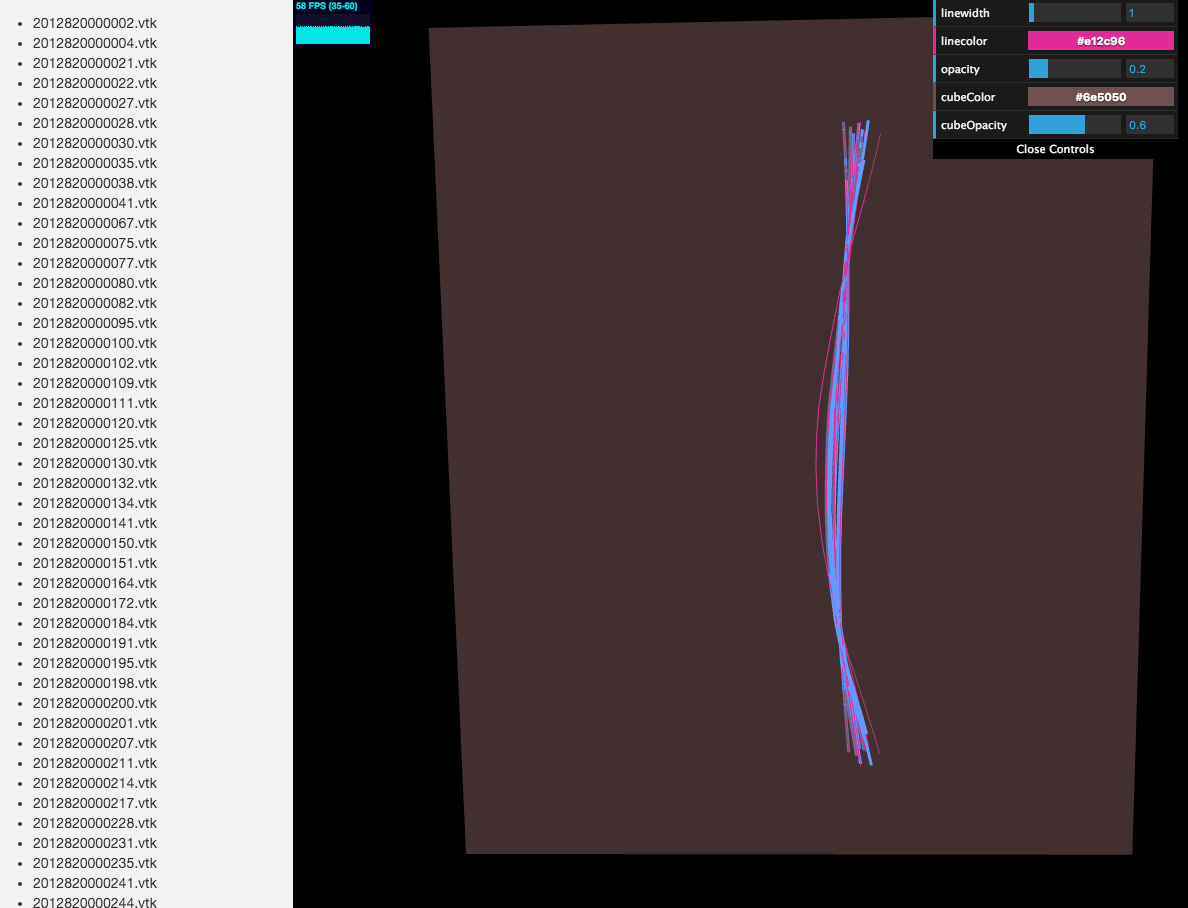
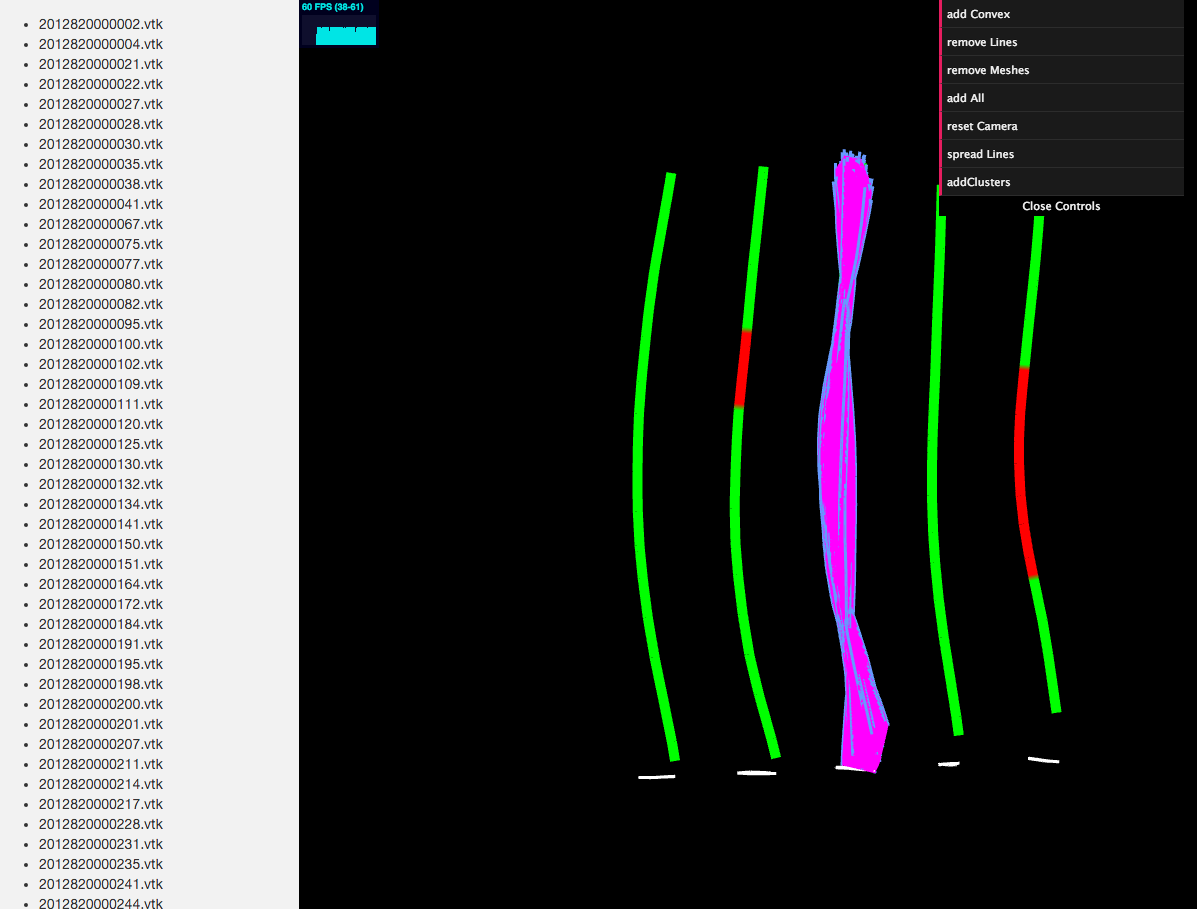
Add reference to Davids work

diff --git a/README.md b/README.md
@@ -3,3 +3,5 @@
 # THREE.js Playground
 
 Purpose of this project is to provide a reimplementation of a VTK-spine data set visualization of the [VMV'14 Paper](http://dx.doi.org/10.2312/PE.VMV.VMV13.121-128) in `WebGL`. To set everything up, run `make`.
+
+The image is from the `convex` branch of David.
